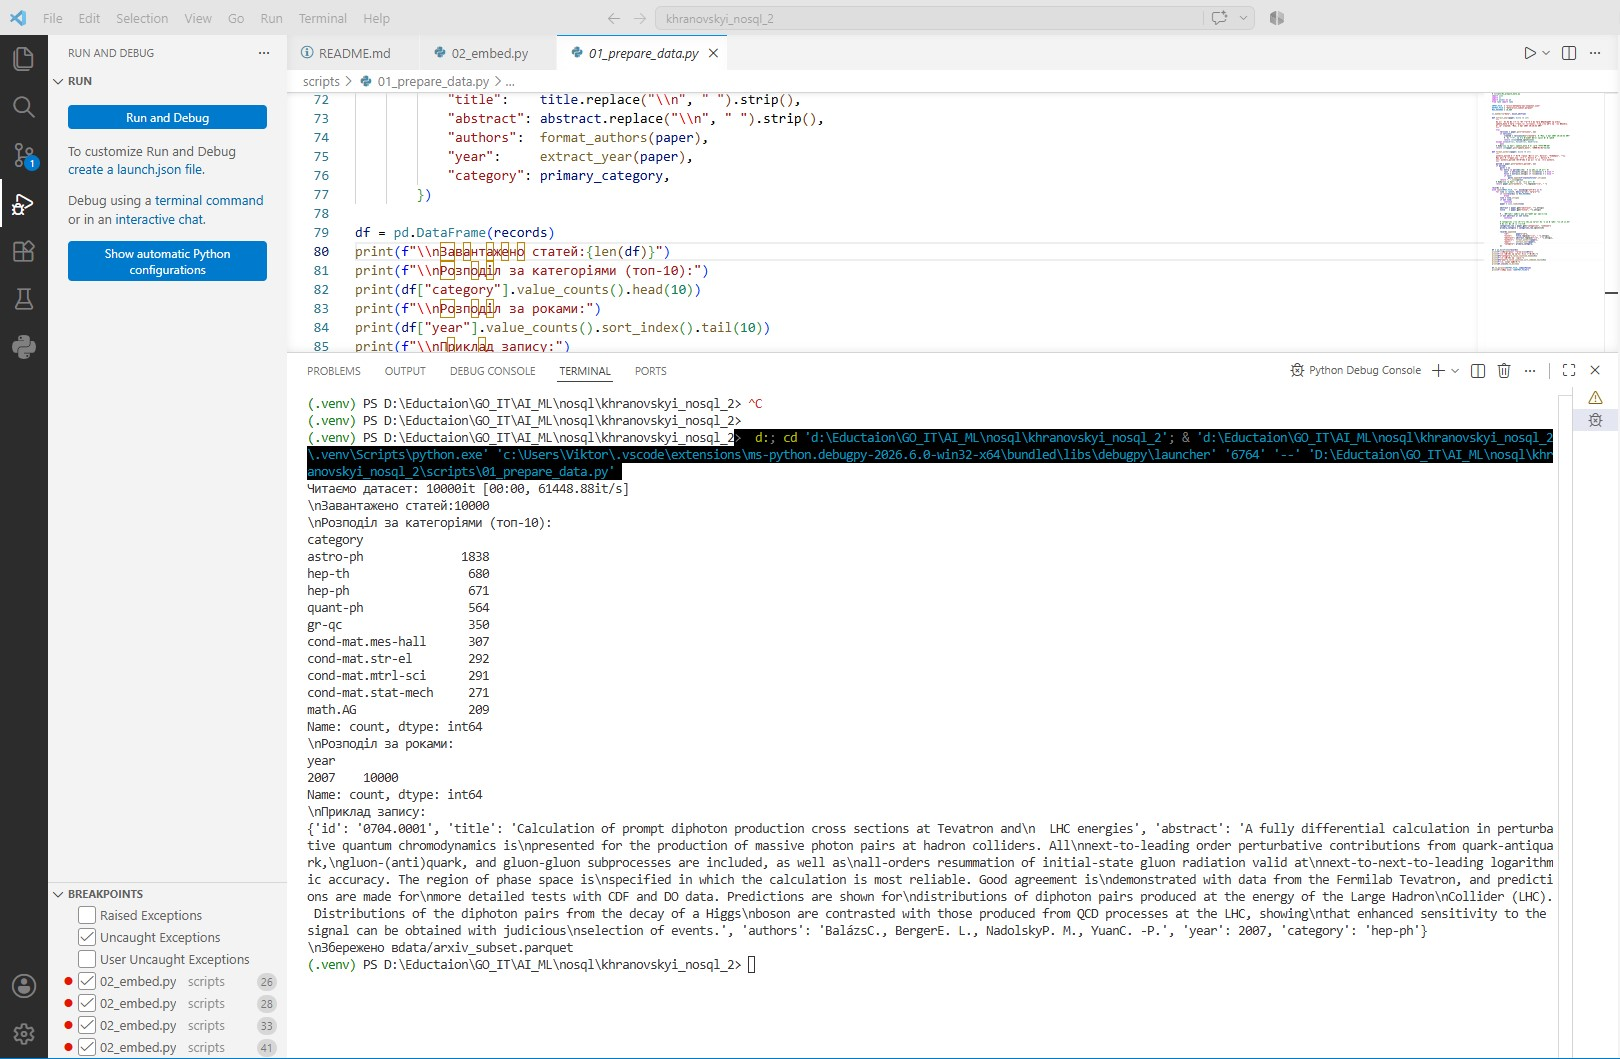
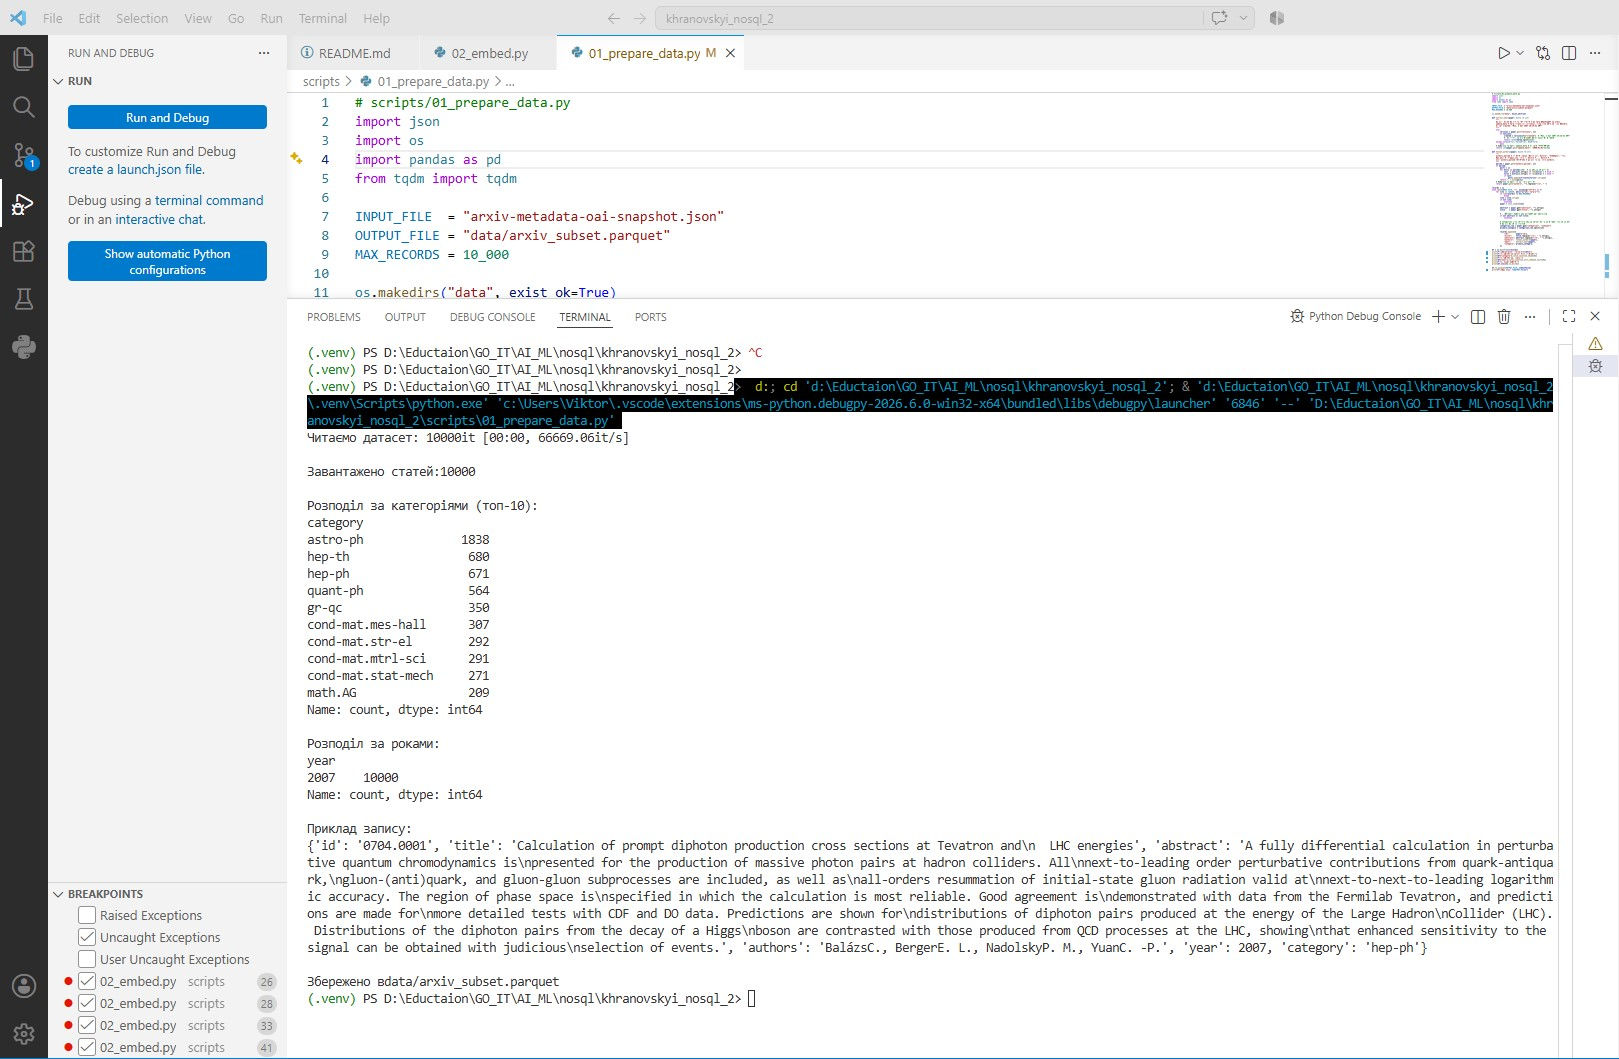
...

diff --git a/scripts/01_prepare_data.py b/scripts/01_prepare_data.py
@@ -77,13 +77,13 @@ with open(INPUT_FILE, "r", encoding="utf-8") as f:
         })
 
 df = pd.DataFrame(records)
-print(f"\\nЗавантажено статей:{len(df)}")
-print(f"\\nРозподіл за категоріями (топ-10):")
+print(f"\nЗавантажено статей:{len(df)}")
+print(f"\nРозподіл за категоріями (топ-10):")
 print(df["category"].value_counts().head(10))
-print(f"\\nРозподіл за роками:")
+print(f"\nРозподіл за роками:")
 print(df["year"].value_counts().sort_index().tail(10))
-print(f"\\nПриклад запису:")
+print(f"\nПриклад запису:")
 print(df.iloc[0].to_dict())
 
 df.to_parquet(OUTPUT_FILE, index=False)
-print(f"\\nЗбережено в{OUTPUT_FILE}")
+print(f"\nЗбережено в{OUTPUT_FILE}")
